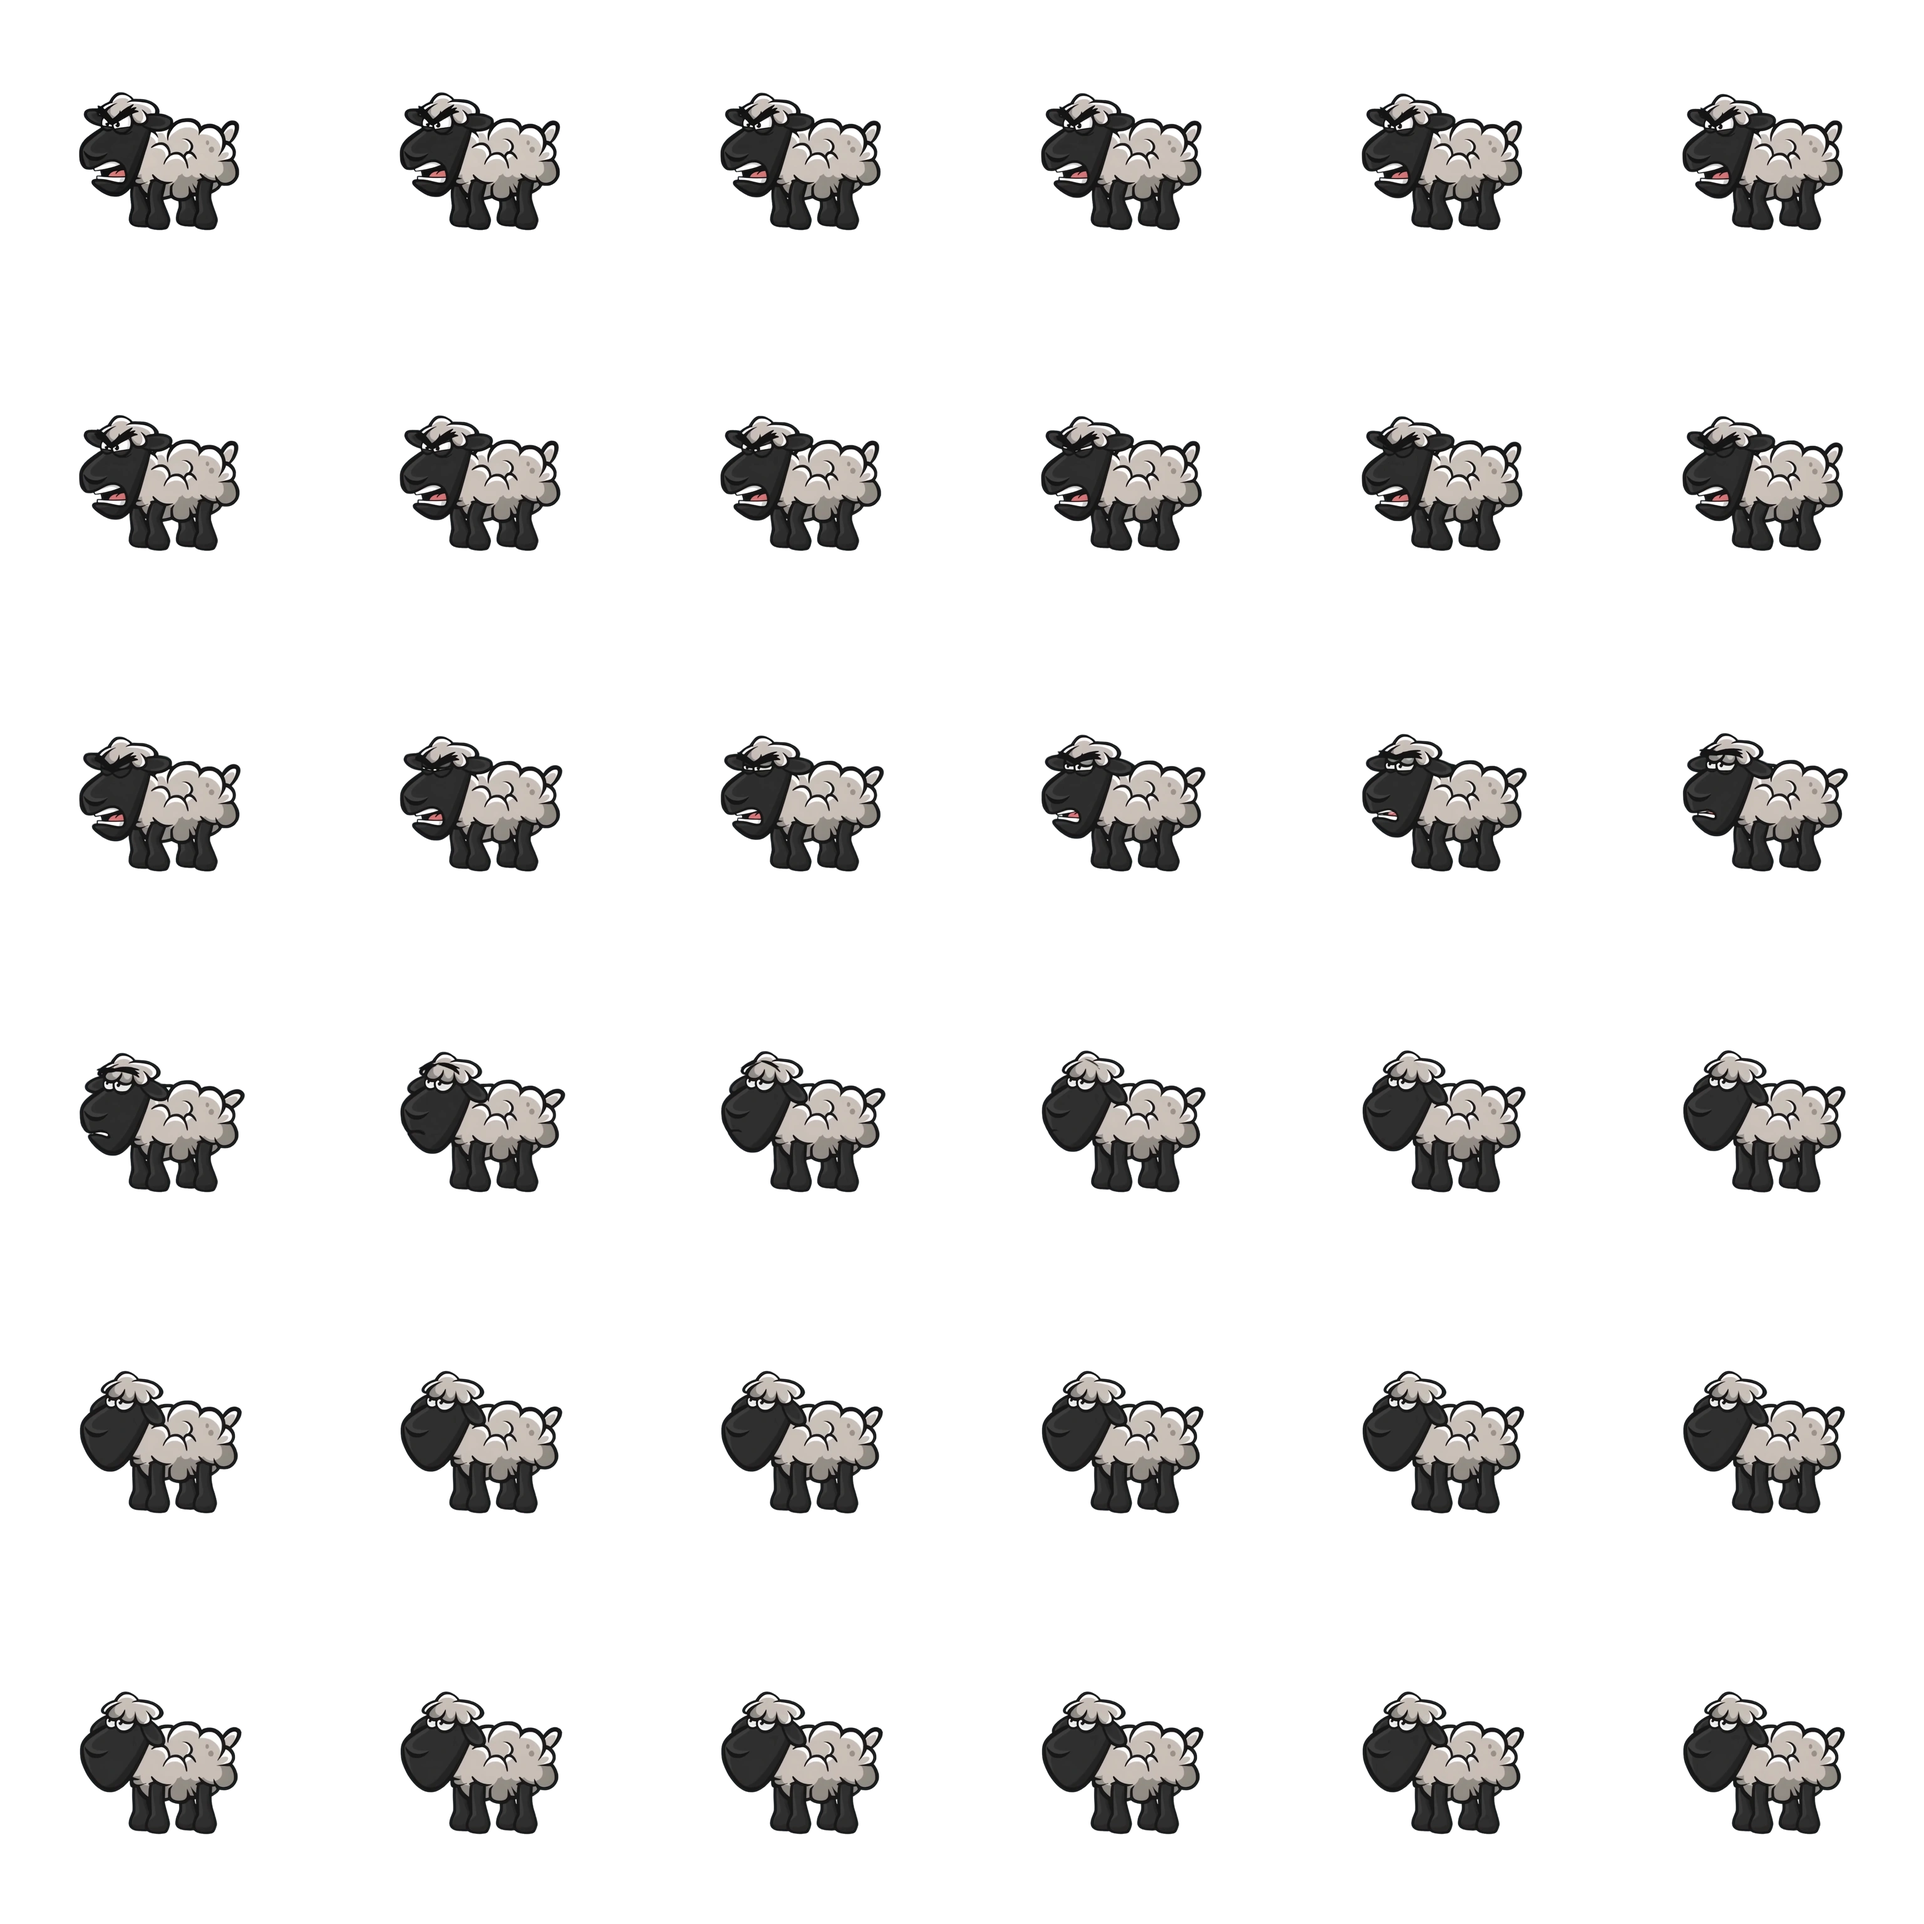
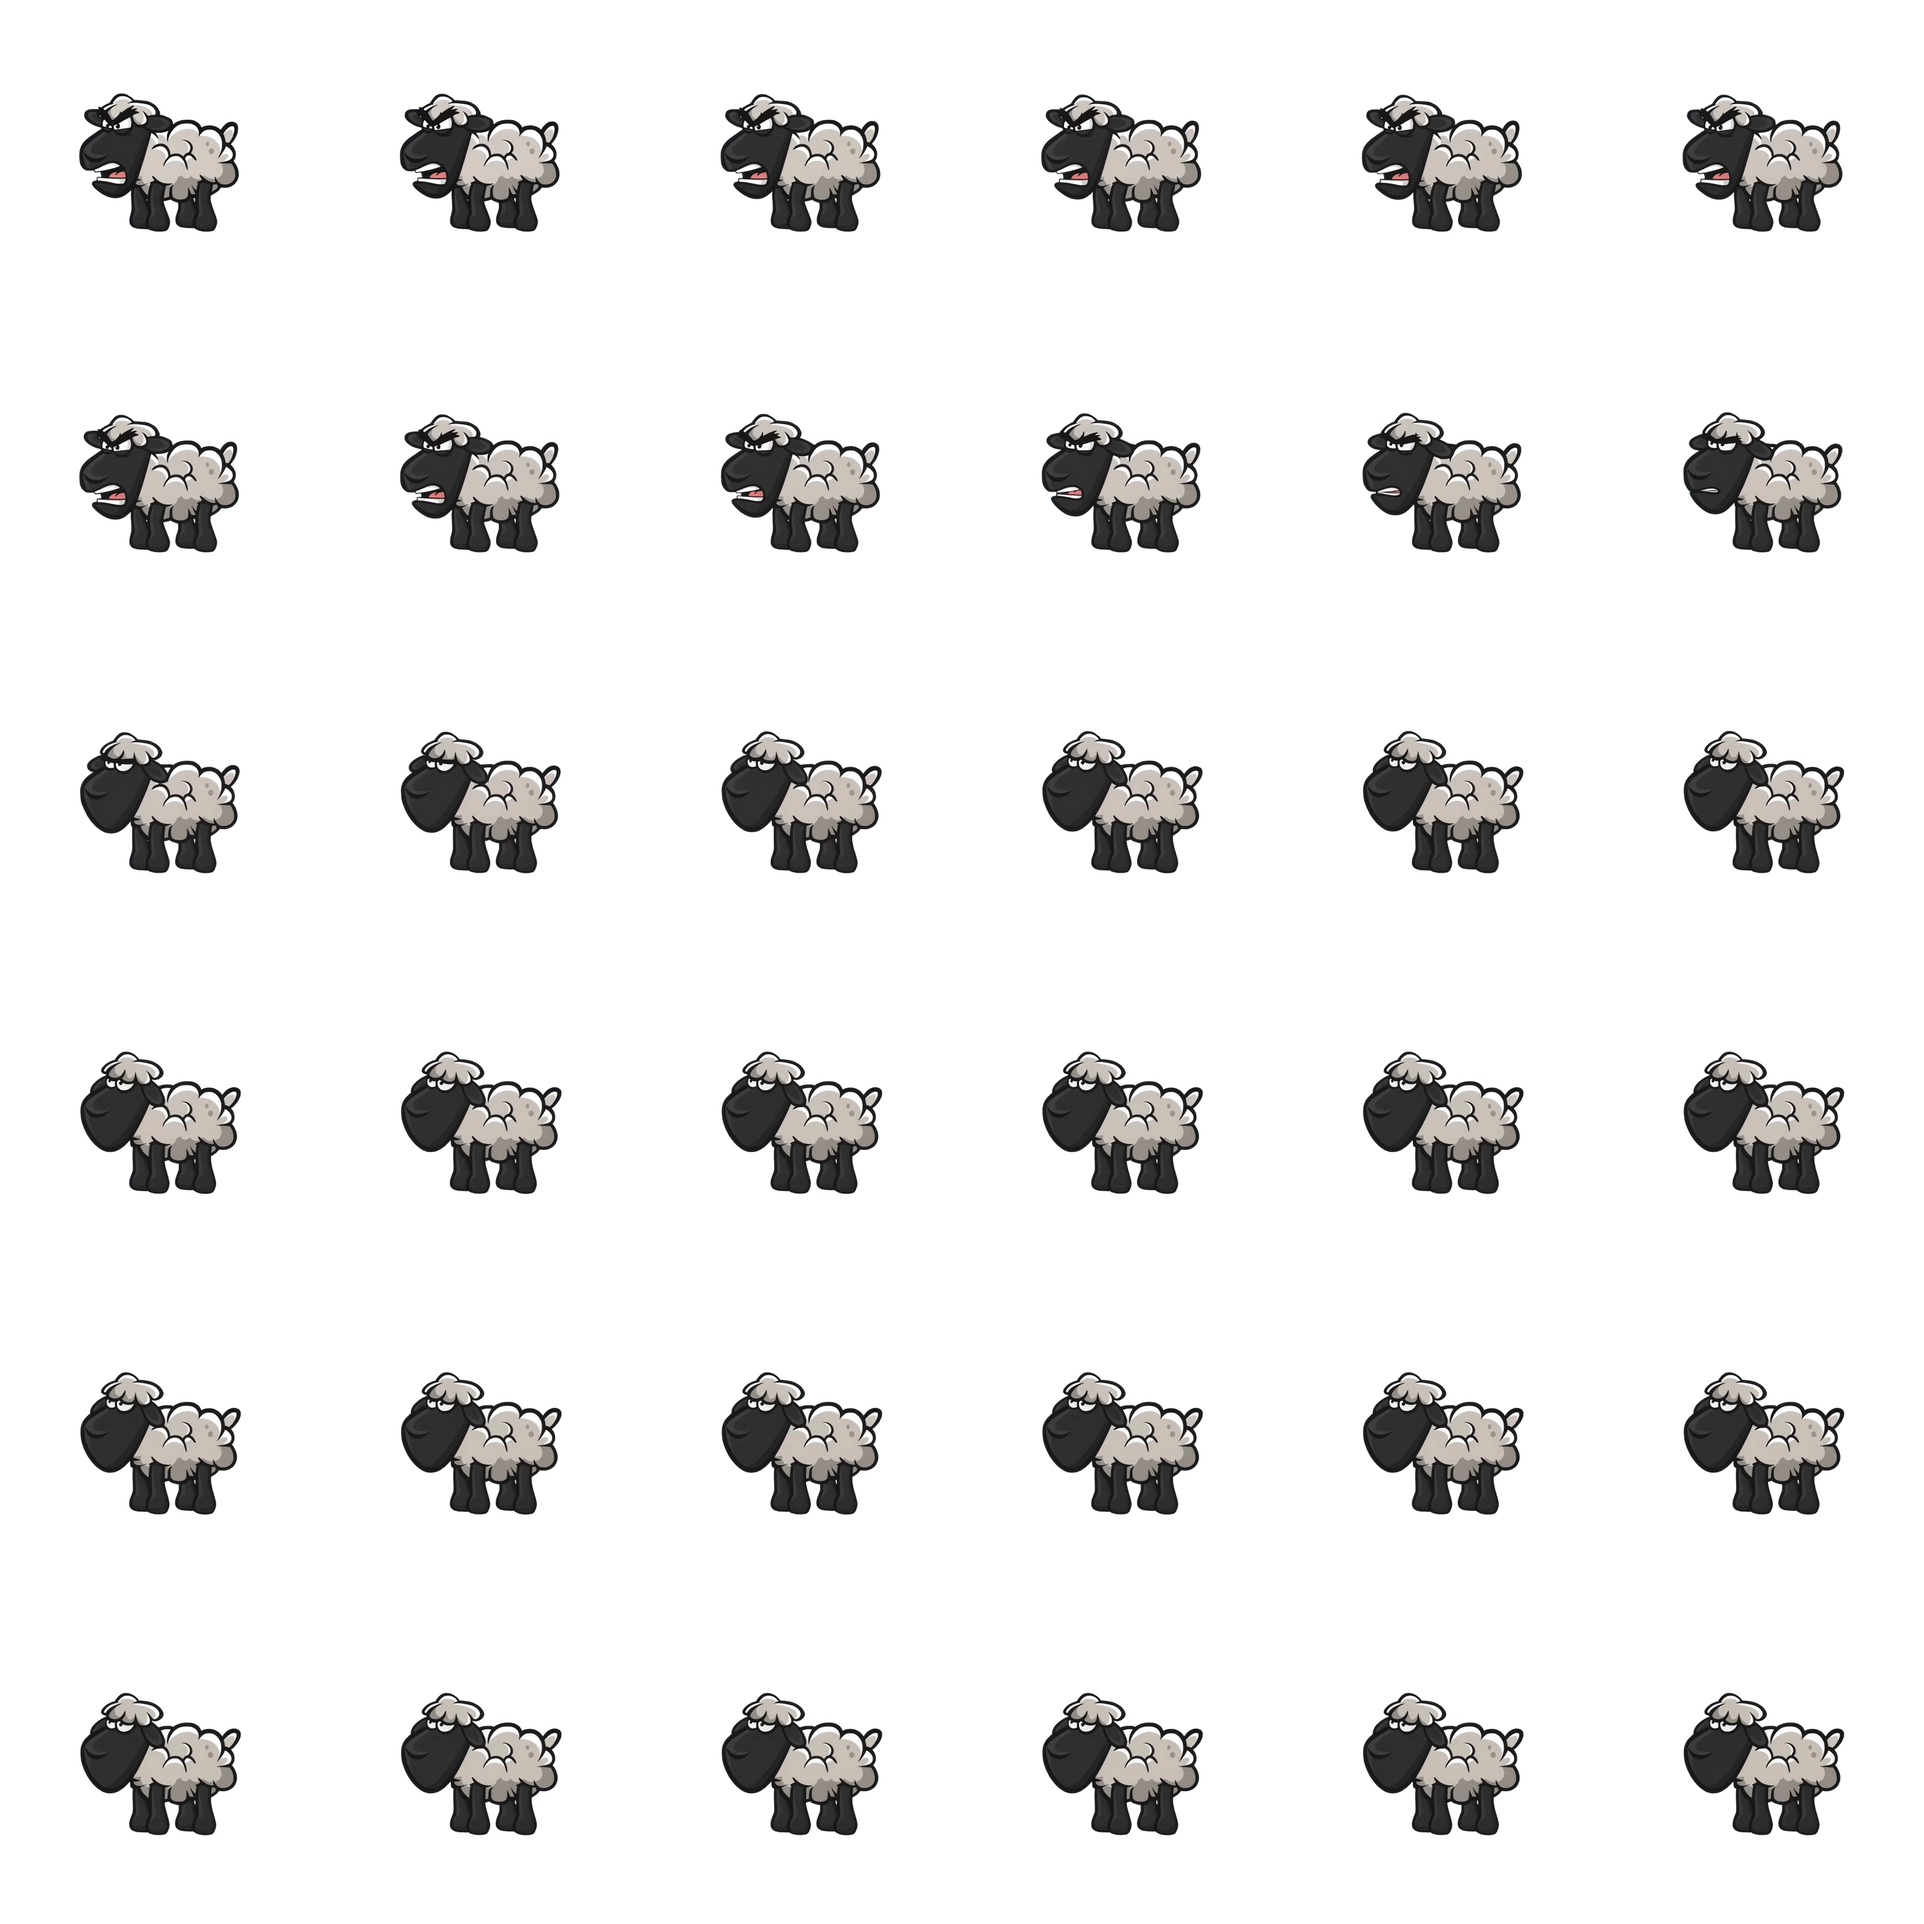
Regenerate the sheep's angry ease-out from the loop's last frame
The first ease-out started from main frame 23, a close but different
drawing from the frame the loop actually ends on, so it shifted at the
join. It now starts from loop:last (join 0.47%, same scale as the loop),
and its prompt forbids widened eyes after a retry passed through a
startled face. Calm by frame 12, still from 18, trimmed to 21 frames.

diff --git a/src/phaser/animals/emotionSheets.generated.ts b/src/phaser/animals/emotionSheets.generated.ts
@@ -1236,7 +1236,7 @@ export const EMOTION_SHEETS: Partial<
             heightSwing: 5.8,
             driftX: 2.5,
             seamIn: 0.46,
-            seamOut: 0.64,
+            seamOut: 0.47,
             warnings: [],
           },
         },
@@ -1244,17 +1244,17 @@ export const EMOTION_SHEETS: Partial<
           file: 'white-sheep-1-angry-out.png',
           frameWidth: 512,
           frameHeight: 512,
-          frameCount: 27,
+          frameCount: 21,
           frameRate: 12,
-          scale: 1.1415,
-          originX: 0.4882,
-          originY: 0.7207,
+          scale: 1.1313,
+          originX: 0.4901,
+          originY: 0.7286,
           quality: {
             loopPop: 1.62,
-            heightSwing: 5.7,
-            driftX: 2.5,
-            seamIn: 0.64,
-            seamOut: 1.13,
+            heightSwing: 3.5,
+            driftX: 1.3,
+            seamIn: 0.47,
+            seamOut: 1.16,
             warnings: [],
           },
         },
